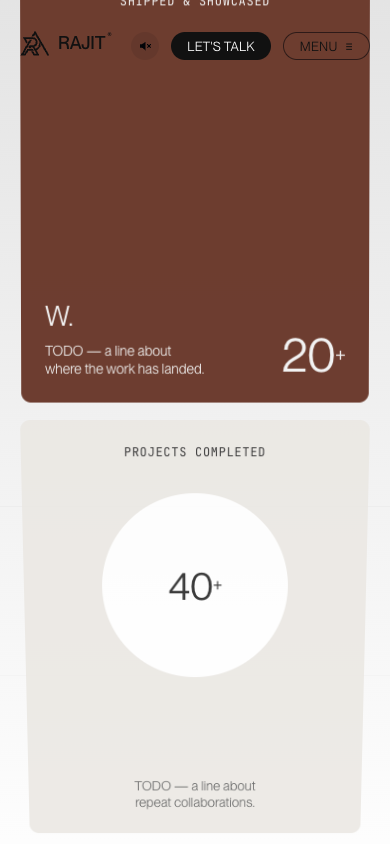
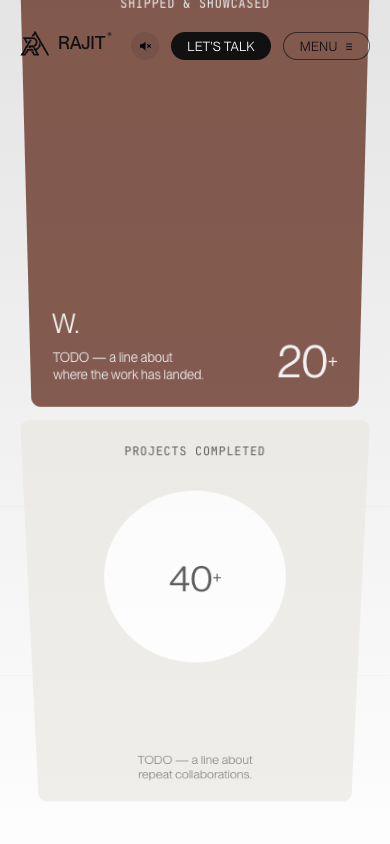
wipe: spread the sequence over 40% more scroll
STRETCH 1.3 -> 1.4. Window 1151px -> 1611px, start unchanged at 1792, every
cue still in place:

  t=0.3  30/0/0/0/0        t=1.5  b3 90, headings at y=951
  t=0.9  90/60/30/0/0      t=1.9  b4 100, cards folded at 38%
  t=1.2  100/90/60/30/0    t=2.2  bands complete

The card grid now finishes at y=-317, leaving 22% of each card on screen --
against 50% at 30%, 79% at 20% and fully visible unstretched. The rotation
that cue (f) exists to trigger now completes almost entirely above the
fold. Implemented as asked and flagged rather than compensated, since
fixing it means either exceeding the requested 40% or shortening the cards'
own run.

diff --git a/src/components/home/ChapterWipe.tsx b/src/components/home/ChapterWipe.tsx
@@ -59,7 +59,7 @@ const BANDS = 5;
  * The window's start is cued to the marquee sitting centred, so the extra goes
  * on the end.
  */
-const STRETCH = 1.3;
+const STRETCH = 1.4;
 
 const CHAPTER_BG = "linear-gradient(180deg,#dadada 0%,#fdfdfd 60%,#ffffff 100%)";
 
